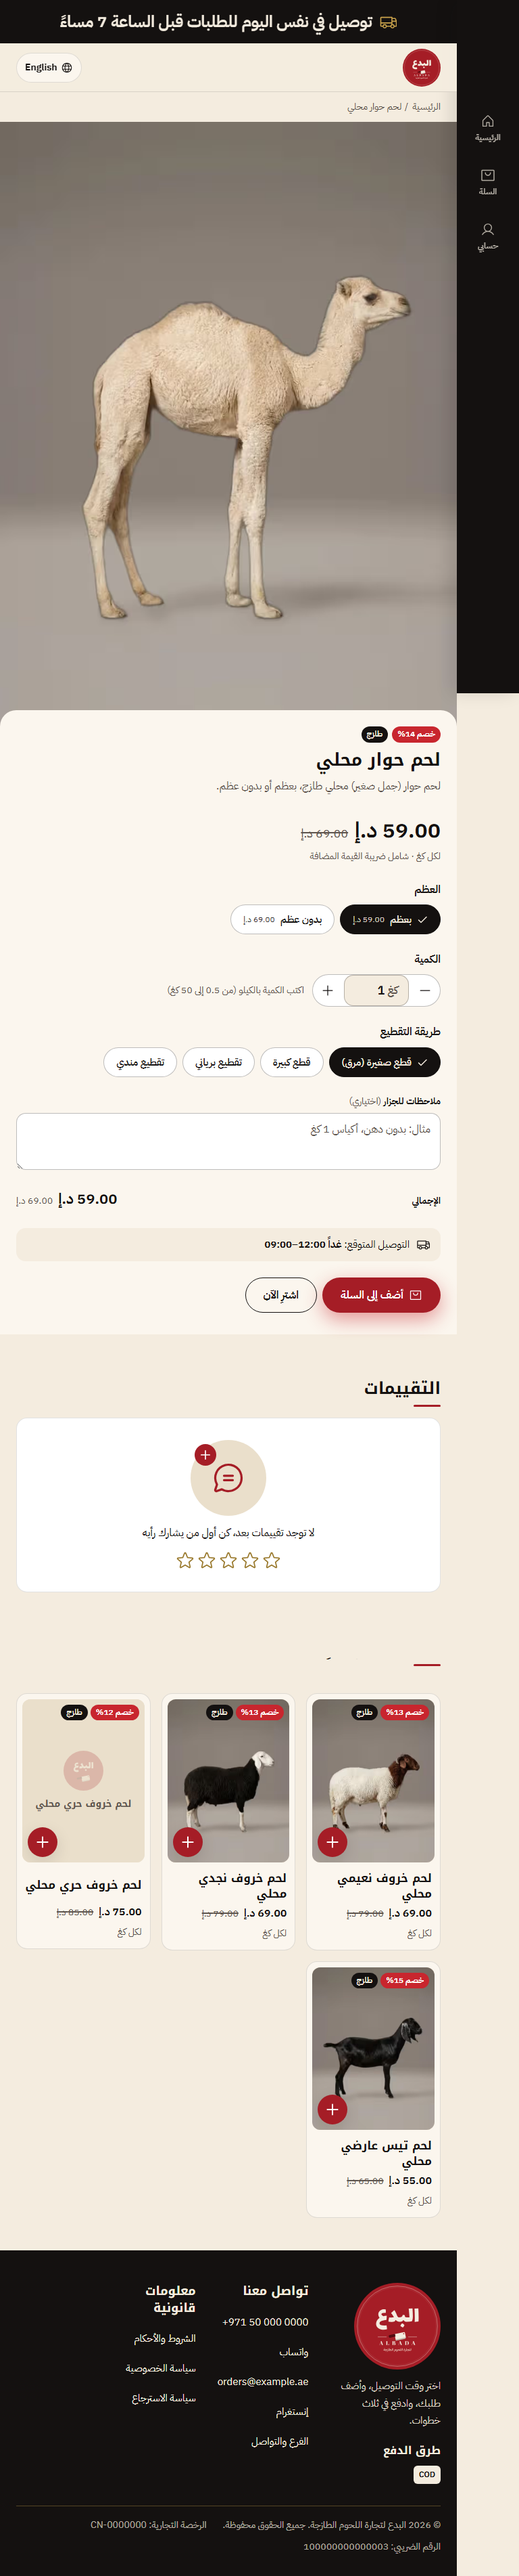
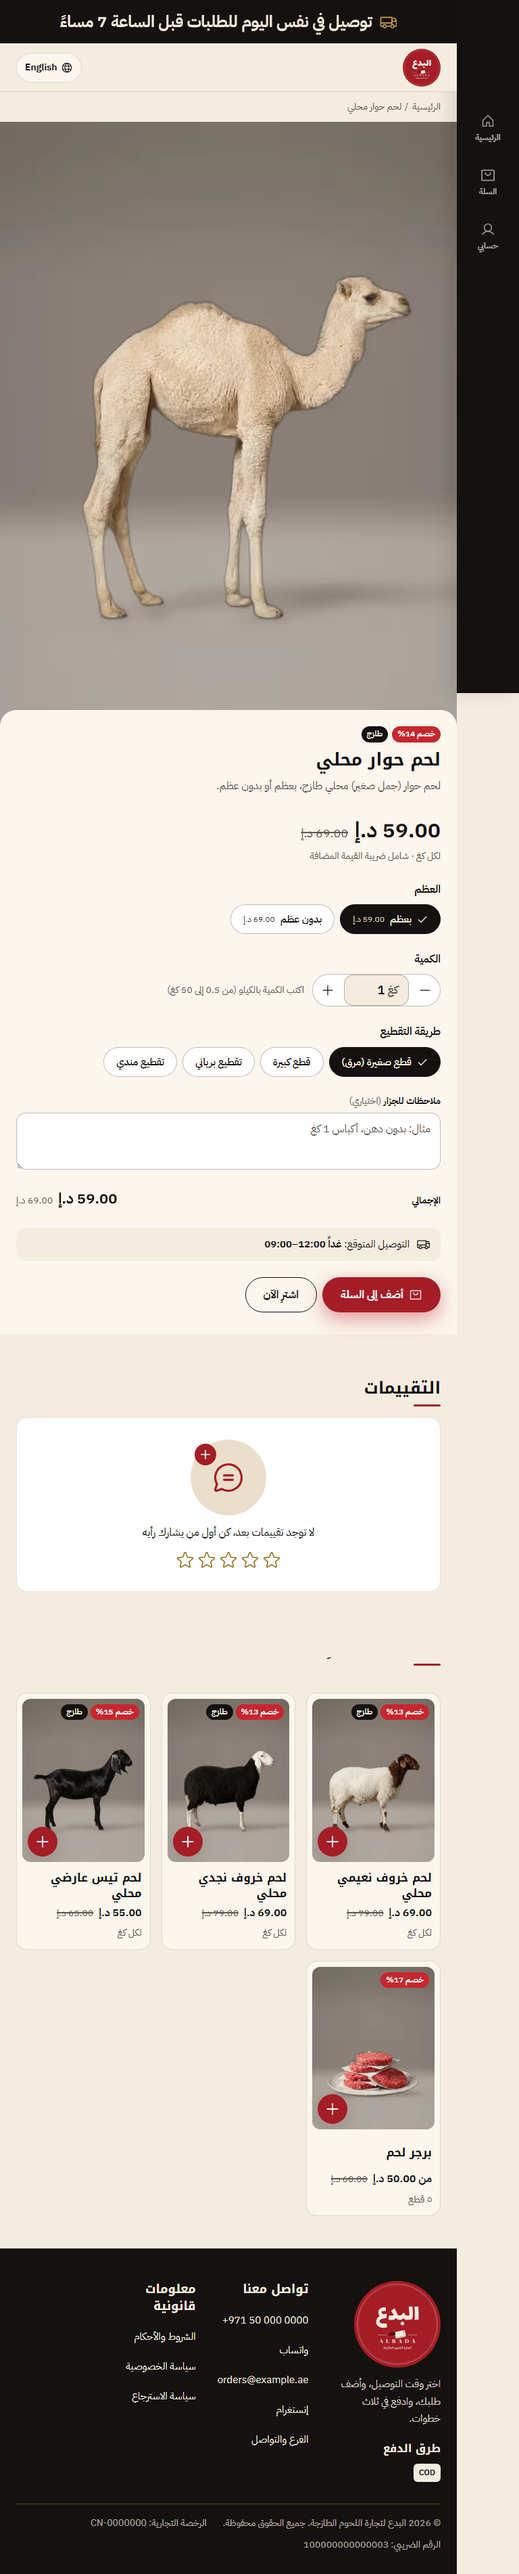
Hide products without a photo (Harri sheep, calf) until their photos arrive: off the grid, sitemap and structured data, product pages 404, can't be ordered, dropped from saved carts; grid columns follow the product count. Live total no longer shows two numbers on top of each other when the amount ch

diff --git a/src/app/globals.css b/src/app/globals.css
@@ -355,9 +355,10 @@ html[lang='ar'] .hero h1 { min-height: 2.6em; }
 .grid { display: grid; gap: var(--s3); grid-template-columns: repeat(2, minmax(0, 1fr)); }
 @media (min-width: 768px) { .grid { grid-template-columns: repeat(3, minmax(0, 1fr)); gap: var(--s4); } }
 @media (min-width: 1100px) { .grid { grid-template-columns: repeat(4, minmax(0, 1fr)); } }
-/* Home: all 10 products in one grid — 2 columns up to tablet, 5 on desktop, so every row is full. */
+/* Home: all products in one grid — 2 columns up to tablet; on desktop the column count divides the number of
+   products (set inline as --cols: 8 → 4, 10 → 5), so every row is full. */
 @media (min-width: 768px) and (max-width: 1099px) { .grid-all { grid-template-columns: repeat(2, minmax(0, 1fr)); } }
-@media (min-width: 1100px) { .grid-all { grid-template-columns: repeat(5, minmax(0, 1fr)); } }
+@media (min-width: 1100px) { .grid-all { grid-template-columns: repeat(var(--cols, 4), minmax(0, 1fr)); } }
 .card { position: relative; display: flex; flex-direction: column; background: var(--surface); border-radius: var(--r-card); padding: var(--s2); border: 1px solid var(--line); transition: transform .15s var(--ease); }
 .card:active { transform: scale(.98); }
 .card .media { position: relative; aspect-ratio: 3 / 4; border-radius: var(--r-img); overflow: hidden; background: var(--deep); }
@@ -382,12 +383,11 @@ html[lang='ar'] .hero h1 { min-height: 2.6em; }
 .ph .ph-mark { width: 38%; max-width: 120px; aspect-ratio: 1; background: center / contain no-repeat; opacity: .2; }
 .ph.lg { font-size: clamp(18px, 3vw, 26px); }
 .ph.sm .ph-mark { display: none; }
-/* Photos paint as soon as they arrive (no opacity fade — a fade-in counts as layout shift and hides content);
-   the shimmer sits BEHIND the photo while it loads. */
-.img-load { position: absolute; inset: 0; isolation: isolate; background: var(--deep); }
+/* Photos paint as soon as they arrive, on a plain beige frame. No fade and no shimmer: both change what the
+   frame paints when the photo lands, which Chrome counts as layout shift (measured: CLS 0.26 → 0). */
+.img-load { position: absolute; inset: 0; background: var(--deep); }
 .skeleton { background: var(--deep); position: relative; overflow: hidden; border-radius: var(--r-img); }
-.img-load:not(.loaded)::after { z-index: -1; }
-.skeleton::after, .img-load:not(.loaded)::after { content: ''; position: absolute; inset: 0; transform: translateX(-100%); background: linear-gradient(90deg, transparent, rgba(251, 246, 238, .6), transparent); animation: shimmer 1.4s infinite; }
+.skeleton::after { content: ''; position: absolute; inset: 0; transform: translateX(-100%); background: linear-gradient(90deg, transparent, rgba(251, 246, 238, .6), transparent); animation: shimmer 1.4s infinite; }
 @keyframes shimmer { to { transform: translateX(100%); } }
 
 /* ======================== product page ======================== */
@@ -440,7 +440,10 @@ html[lang='ar'] .hero h1 { min-height: 2.6em; }
 .eta { display: flex; gap: 10px; align-items: center; padding: var(--s3) var(--s4); background: var(--bg); border-radius: var(--r-btn); font-size: 15px; }
 .total-line { display: flex; justify-content: space-between; align-items: baseline; gap: var(--s3); }
 .total-line .t-value { font-size: 22px; font-weight: 700; display: inline-flex; gap: 8px; align-items: baseline; }
-.anim-num { display: inline-grid; overflow: hidden; vertical-align: bottom; }
+.anim-num { display: inline-block; white-space: nowrap; }
+.anim-num-in { display: inline-block; animation: num-in .18s var(--ease) both; }
+@keyframes num-in { from { transform: translateY(6px); } to { transform: none; } }
+@media (prefers-reduced-motion: reduce) { .anim-num-in { animation: none; } }
 .desktop-add { display: none; gap: var(--s2); }
 @media (min-width: 768px) { .desktop-add { display: flex; } }
 

diff --git a/tests/layout.spec.ts b/tests/layout.spec.ts
@@ -3,6 +3,7 @@
  * picture), P5 (visible on first paint), P6 (WhatsApp button), P7 (compact trust row), no sideways scrolling.
  */
 import { expect, test, type Page } from '@playwright/test';
+import { shopProducts } from '../src/data/shop';
 import { settle } from './helpers';
 
 const visibleCount = (page: Page, sel: string) =>
@@ -61,19 +62,20 @@ test.describe('P2: every piece rendered once (no search, no category chips)', ()
     expect(await visibleCount(page, '[data-testid="tabbar"]')).toBe(0);
   });
 
-  test('home shows all 10 products together in one grid, with no category titles', async ({ page }) => {
-    for (const [w, cols] of [[390, 2], [768, 2], [1280, 5]] as const) {
+  test('home shows every listed product together in one grid (full rows), with no category titles', async ({ page }) => {
+    const n = shopProducts.length;
+    for (const [w, cols] of [[390, 2], [768, 2], [1280, n % 5 === 0 ? 5 : 4]] as const) {
       await page.setViewportSize({ width: w, height: 900 });
       await page.goto('/ar');
       await settle(page);
       const grid = page.getByTestId('product-grid');
-      await expect(grid.locator('[data-testid="product-card"]')).toHaveCount(10);
+      await expect(grid.locator('[data-testid="product-card"]')).toHaveCount(n);
       expect(await page.locator('main h2:not(.sr-only)').evaluateAll((hs) => hs.map((h) => h.textContent).filter((t) => /حوار|خروف|تيس|عجل|برجر|وجبات/.test(t ?? ''))), `${w}`).toEqual([]);
       // Every row is full: the number of columns divides 10.
       const tops = await grid.locator(':scope > *').evaluateAll((els) => els.map((e) => Math.round(e.getBoundingClientRect().top)));
       const perRow = tops.filter((t) => t === tops[0]).length;
       expect(perRow, `${w}`).toBe(cols);
-      expect(10 % perRow, `${w}`).toBe(0);
+      expect(n % perRow, `${w}`).toBe(0);
     }
   });
 });

diff --git a/tests/catalog.spec.ts b/tests/catalog.spec.ts
@@ -1,6 +1,7 @@
 /** Every product and option: offer price shown, discount badge right, cart total right, both languages. */
 import { expect, test } from '@playwright/test';
-import { products } from '../src/data/catalog';
+// Only products with a photo are on the site (the others are hidden until their photo arrives).
+import { shopProducts as products } from '../src/data/shop';
 import { settle, VIEWPORTS } from './helpers';
 
 const fmt = (n: number, lang: 'ar' | 'en') => {
@@ -107,4 +108,24 @@ test('cart line shows the chosen options (e.g. "Local Hawar Meat - Boneless - 2 
   await page.locator('[data-testid="tab-cart"]').filter({ visible: true }).first().click();
   await expect(page.getByTestId('cart-line-label').first()).toHaveText('Boneless - 2 kg - Mandi cut');
   await expect(page.getByTestId('cart-line-total').first()).toHaveText('AED 138.00');
+});
+
+test('the live total never shows two numbers on top of each other while the amount changes', async ({ page }) => {
+  await page.goto('/ar/product/najdi-local');
+  await settle(page);
+  const plus = page.getByRole('button', { name: 'زيادة الكمية' }).first();
+  const seen: string[] = [];
+  for (let i = 0; i < 6; i++) {
+    await plus.click();
+    for (let k = 0; k < 4; k++) {
+      seen.push(await page.getByTestId('live-total').evaluate((el) => {
+        const nums = el.querySelectorAll('.anim-num-in');
+        return `${nums.length}:${el.textContent}`;
+      }));
+      await page.waitForTimeout(40);
+    }
+  }
+  // Each sample: the price and the struck-through regular price, one value each (2 spans), never more.
+  for (const s of seen) expect(Number(s.split(':')[0]), s).toBeLessThanOrEqual(2);
+  await expect(page.getByTestId('live-total')).toContainText('276.00'); // 1 kg + 6 × 0.5 kg = 4 kg × 69
 });

diff --git a/src/components/Motion.tsx b/src/components/Motion.tsx
@@ -4,7 +4,7 @@
  * P5: content is fully visible on first paint and without JavaScript. Reveal effects are applied only after
  * hydration and only to elements that start BELOW the fold — and they move (transform) rather than fade.
  */
-import { AnimatePresence, motion, MotionConfig, useInView, useReducedMotion } from 'motion/react';
+import { motion, MotionConfig, useInView, useReducedMotion } from 'motion/react';
 import { useEffect, useRef, useState } from 'react';
 
 export const EASE = [0.22, 1, 0.36, 1] as const;
@@ -53,18 +53,14 @@ export function SectionTitle({ children, id }: { children: React.ReactNode; id?:
   );
 }
 
-/** A number/price that slides when it changes (vertical, 200 ms). */
+/**
+ * A number/price that changes cleanly: the old value is replaced at once (never two numbers on top of each
+ * other) and the new one rises 6px into place in 180 ms (transform only; reduced motion: no movement).
+ */
 export function AnimatedValue({ value, className }: { value: string; className?: string }) {
-  const reduce = useReducedMotion();
   return (
     <span className={`anim-num ${className ?? ''}`}>
-      <AnimatePresence mode="popLayout" initial={false}>
-        <motion.span key={value} style={{ gridArea: '1 / 1' }}
-          initial={{ y: reduce ? 0 : '100%', opacity: reduce ? 0 : 1 }} animate={{ y: 0, opacity: 1 }}
-          exit={{ y: reduce ? 0 : '-100%', opacity: reduce ? 0 : 1 }} transition={{ duration: reduce ? 0.1 : 0.2, ease: EASE }}>
-          {value}
-        </motion.span>
-      </AnimatePresence>
+      <span key={value} className="anim-num-in">{value}</span>
     </span>
   );
 }

diff --git a/tests/qa.spec.ts b/tests/qa.spec.ts
@@ -185,3 +185,21 @@ test('H: the shop is called "Albada" / "البدع" everywhere (the old name "Ha
     expect(body.includes('حوار البدع') || body.includes('Hawar')).toBe(false);
   }
 });
+
+test('no image placeholders: every product shown has a photo; products without one are hidden and return 404', async ({ page, request }) => {
+  const { hiddenProducts, shopProducts } = await import('../src/data/shop');
+  for (const path of ['/ar', '/en']) {
+    await page.goto(path);
+    await settle(page);
+    expect(await page.locator('.ph').count(), path).toBe(0);
+    expect(await page.locator('[data-testid="product-card"]').count(), path).toBe(shopProducts.length);
+    for (const p of hiddenProducts) expect(await page.locator(`[data-product="${p.id}"]`).count(), p.id).toBe(0);
+  }
+  for (const p of shopProducts) {
+    await page.goto(`/ar/product/${p.id}`);
+    expect(await page.locator('.pdp-photo .ph').count(), p.id).toBe(0);
+  }
+  for (const p of hiddenProducts) expect((await request.get(`/ar/product/${p.id}`)).status(), p.id).toBe(404);
+  const sitemap = await (await request.get('/sitemap.xml')).text();
+  for (const p of hiddenProducts) expect(sitemap.includes(`/product/${p.id}`), p.id).toBe(false);
+});

diff --git a/src/data/shop.ts b/src/data/shop.ts
@@ -1,0 +1,20 @@
+/**
+ * What the shop shows. The client decided (2026-11-09): a product without a photo is hidden until its photo is
+ * added (no placeholders on the site). The catalogue itself (names, prices, options) is unchanged in catalog.ts;
+ * adding images-raw/{id}.jpg and running `node scripts/process-images.mjs` brings the product back automatically.
+ */
+import { productById, products, type Product } from './catalog';
+import manifest from './product-images.json';
+
+const photos = new Set<string>(manifest.images);
+
+/** Products on sale on the site (in catalogue order). */
+export const shopProducts: Product[] = products.filter((p) => photos.has(p.id));
+
+/** Hidden products (no photo yet) — listed in the report so the client knows what to send. */
+export const hiddenProducts: Product[] = products.filter((p) => !photos.has(p.id));
+
+export const isListed = (id: string) => photos.has(id) && !!productById(id);
+
+/** A listed product by id, or undefined (hidden or unknown). */
+export const listedProduct = (id: string) => (isListed(id) ? productById(id) : undefined);

diff --git a/src/app/[lang]/page.tsx b/src/app/[lang]/page.tsx
@@ -1,6 +1,6 @@
 import type { Lang } from '@/config/site';
 import { site } from '@/config/site';
-import { products } from '@/data/catalog';
+import { shopProducts as products } from '@/data/shop';
 import { branches } from '@/data/places';
 import { BranchCard } from '@/components/BranchCard';
 import { ButtonLink } from '@/components/Button';
@@ -75,7 +75,7 @@ export default async function Home({ params }: { params: Promise<{ lang: Lang }>
             <SectionTitle id="products-title">{t.ourProducts}</SectionTitle>
             <span className="muted small num">{t.nResults(products.length)}</span>
           </div>
-          <div className="grid grid-all" data-testid="product-grid">
+          <div className="grid grid-all" data-testid="product-grid" style={{ ['--cols' as string]: products.length % 5 === 0 ? 5 : products.length % 4 === 0 ? 4 : products.length % 3 === 0 ? 3 : 4 }}>
             {products.map((p, i) => <Reveal key={p.id} index={i}><ProductCard p={p} priority={i < 2} /></Reveal>)}
           </div>
         </section>

diff --git a/src/components/StoreProvider.tsx b/src/components/StoreProvider.tsx
@@ -3,6 +3,7 @@
 import { createContext, useCallback, useContext, useEffect, useMemo, useRef, useState } from 'react';
 import type { Lang } from '@/config/site';
 import { allowedCuts, productById, qtyRule, validQty, type CutId } from '@/data/catalog';
+import { isListed } from '@/data/shop';
 import { track } from '@/lib/analytics';
 import { unitPrice } from '@/lib/pricing';
 import { getDict, type Dict } from '@/lib/i18n';
@@ -47,7 +48,7 @@ function sanitise(lines: unknown): CartLine[] {
   return lines.flatMap((raw: CartLine) => {
     const l = raw && OLD_OPTION_IDS[raw.sizeId] ? { ...raw, sizeId: OLD_OPTION_IDS[raw.sizeId] } : raw;
     const p = productById(l?.productId);
-    if (!p || !p.sizes.some((s) => s.id === l.sizeId) || !allowedCuts(p).includes(l.cutId)) return [];
+    if (!p || !isListed(p.id) || !p.sizes.some((s) => s.id === l.sizeId) || !allowedCuts(p).includes(l.cutId)) return [];
     const qty = Number(l.qty);
     if (!validQty(p, qty)) return [];
     const notes = String(l.notes ?? '').slice(0, 200);

diff --git a/tests/nav.spec.ts b/tests/nav.spec.ts
@@ -1,5 +1,6 @@
 /** Phone navigation: tab bar (Home, Cart, Profile — search was removed), profile → checkout prefill. */
 import { expect, test } from '@playwright/test';
+import { shopProducts } from '../src/data/shop';
 import { settle, VIEWPORTS } from './helpers';
 
 test.use({ viewport: VIEWPORTS.phone });
@@ -68,7 +69,7 @@ test('search was removed: no search box anywhere, and old /search links land on 
   await expect(page).toHaveURL((u) => u.pathname === '/ar' || u.pathname === '/ar/');
   await settle(page);
   await expect(page.locator('input[type="search"]')).toHaveCount(0);
-  await expect(page.getByTestId('product-grid').locator('[data-testid="product-card"]')).toHaveCount(10);
+  await expect(page.getByTestId('product-grid').locator('[data-testid="product-card"]')).toHaveCount(shopProducts.length);
 });
 
 test('Profile saves delivery details on this device and checkout prefills them', async ({ page }) => {

diff --git a/src/lib/order.ts b/src/lib/order.ts
@@ -4,6 +4,7 @@
  */
 import { site, type Lang } from '@/config/site';
 import { allowedCuts, productById, validQty, type CutId } from '@/data/catalog';
+import { isListed } from '@/data/shop';
 import { branchById, emirates } from '@/data/places';
 import { normaliseUaeMobile } from './format';
 import { checkRedemption, type Redemption } from './points';
@@ -63,7 +64,7 @@ export function cleanLines(lines: OrderInput['lines']): CartLine[] {
   if (!Array.isArray(lines)) return [];
   return lines.slice(0, 50).flatMap((l) => {
     const p = productById(String(l?.productId));
-    if (!p || p.stock === 'out') return [];
+    if (!p || p.stock === 'out' || !isListed(p.id)) return []; // hidden products (no photo yet) can't be ordered
     if (!p.sizes.some((s) => s.id === l.sizeId) || !allowedCuts(p).includes(l.cutId as CutId)) return [];
     const qty = Number(l.qty);
     if (!validQty(p, qty)) return [];

diff --git a/src/app/[lang]/product/[id]/page.tsx b/src/app/[lang]/product/[id]/page.tsx
@@ -2,7 +2,7 @@ import type { Metadata } from 'next';
 import Link from 'next/link';
 import { notFound } from 'next/navigation';
 import { LANGS, site, type Lang } from '@/config/site';
-import { productById, products } from '@/data/catalog';
+import { shopProducts as products, listedProduct as productById } from '@/data/shop';
 import { Reveal, SectionTitle } from '@/components/Motion';
 import { ProductReviews } from '@/components/ProductReviews';
 import { ProductCard } from '@/components/ProductCard';

diff --git a/src/app/sitemap.ts b/src/app/sitemap.ts
@@ -1,6 +1,6 @@
 import type { MetadataRoute } from 'next';
 import { site } from '@/config/site';
-import { products } from '@/data/catalog';
+import { shopProducts as products } from '@/data/shop';
 
 export default function sitemap(): MetadataRoute.Sitemap {
   const paths = ['', '/stores', '/terms', '/privacy', '/refund', ...products.map((p) => `/product/${p.id}`)];
